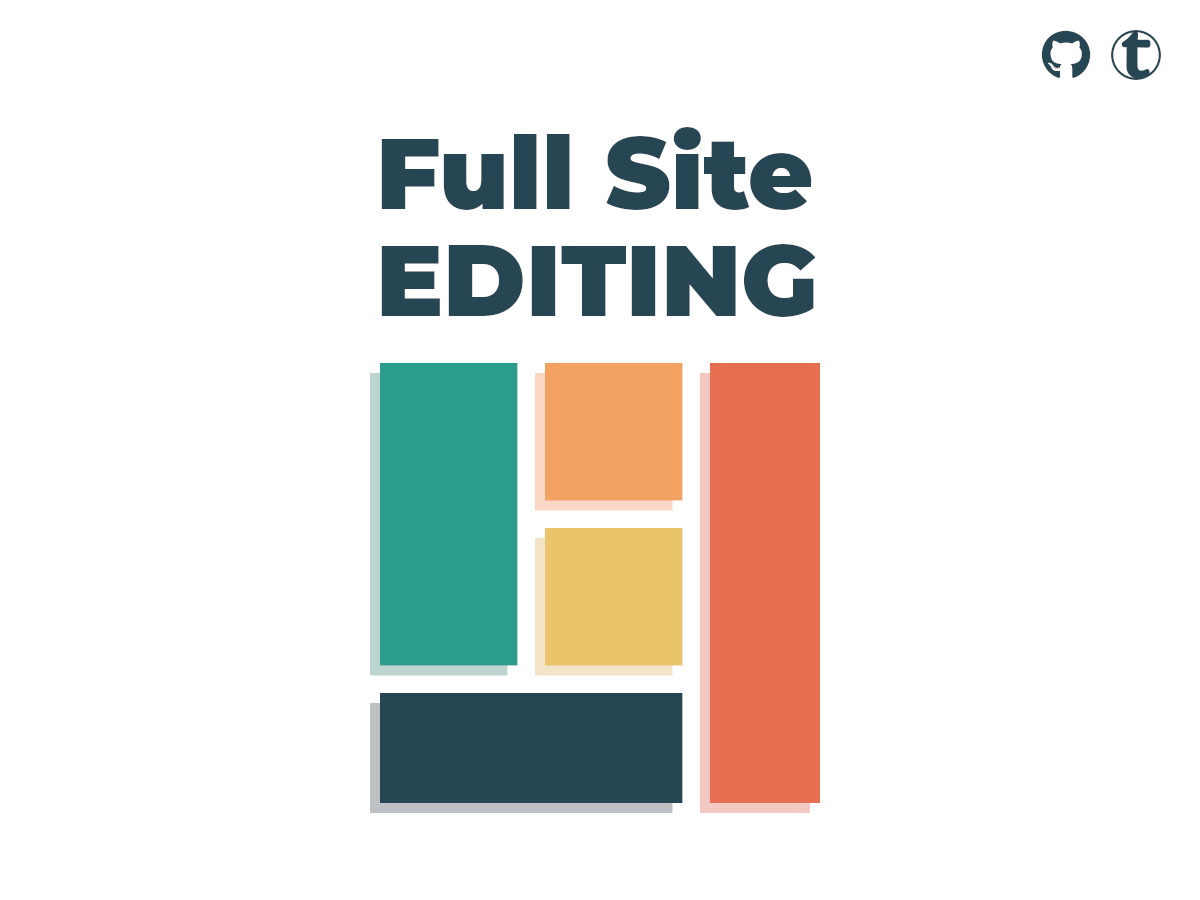
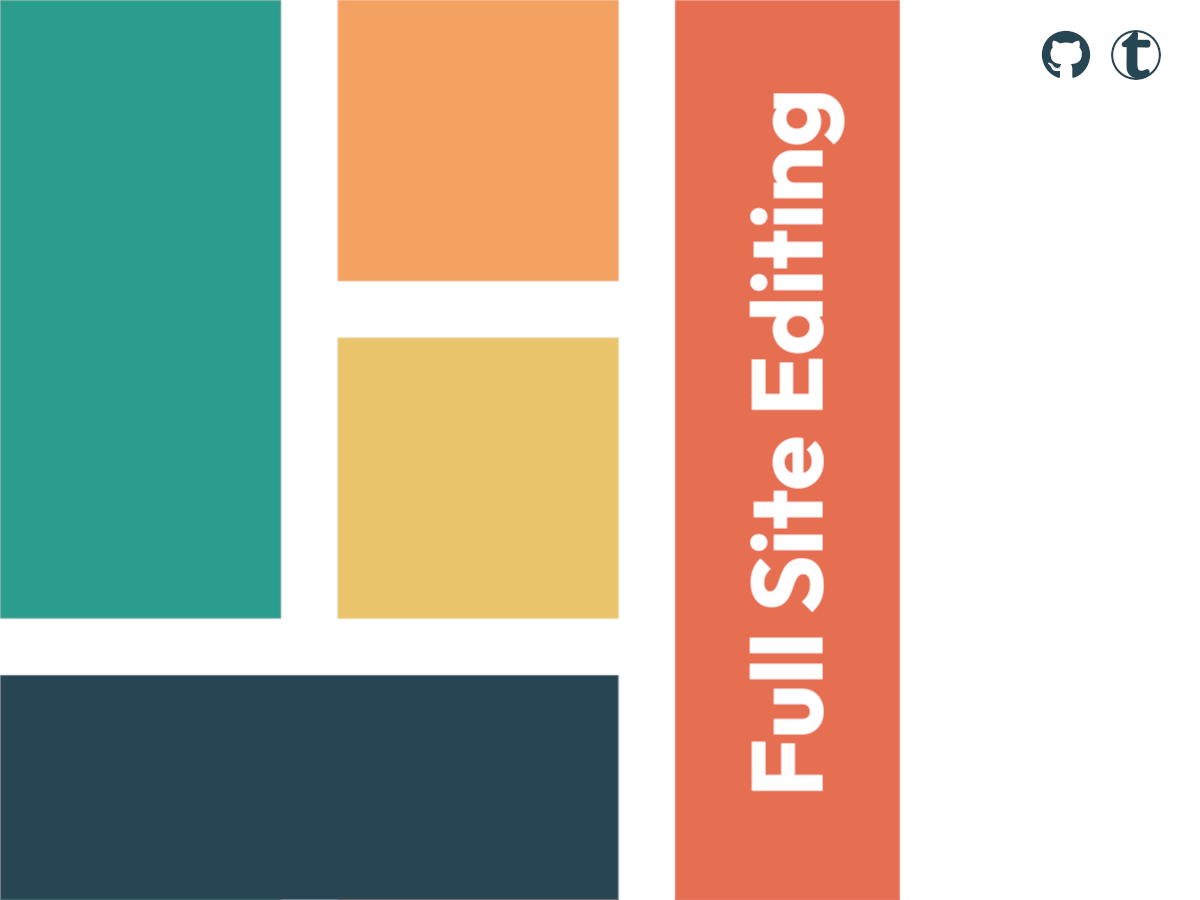
Tested up to WordPress 6.9
New screenshot

diff --git a/style.css b/style.css
@@ -6,7 +6,7 @@ Author URI: https://them.es
 Description: I'm an Open-source Full Site Editing Starter Theme developed and maintained by them.es
 Version: 1.2.7
 Requires at least: 5.9
-Tested up to: 6.8
+Tested up to: 6.9
 Requires PHP: 7.2
 License: GPL version 2 or later
 License URI: https://www.gnu.org/licenses/gpl-2.0